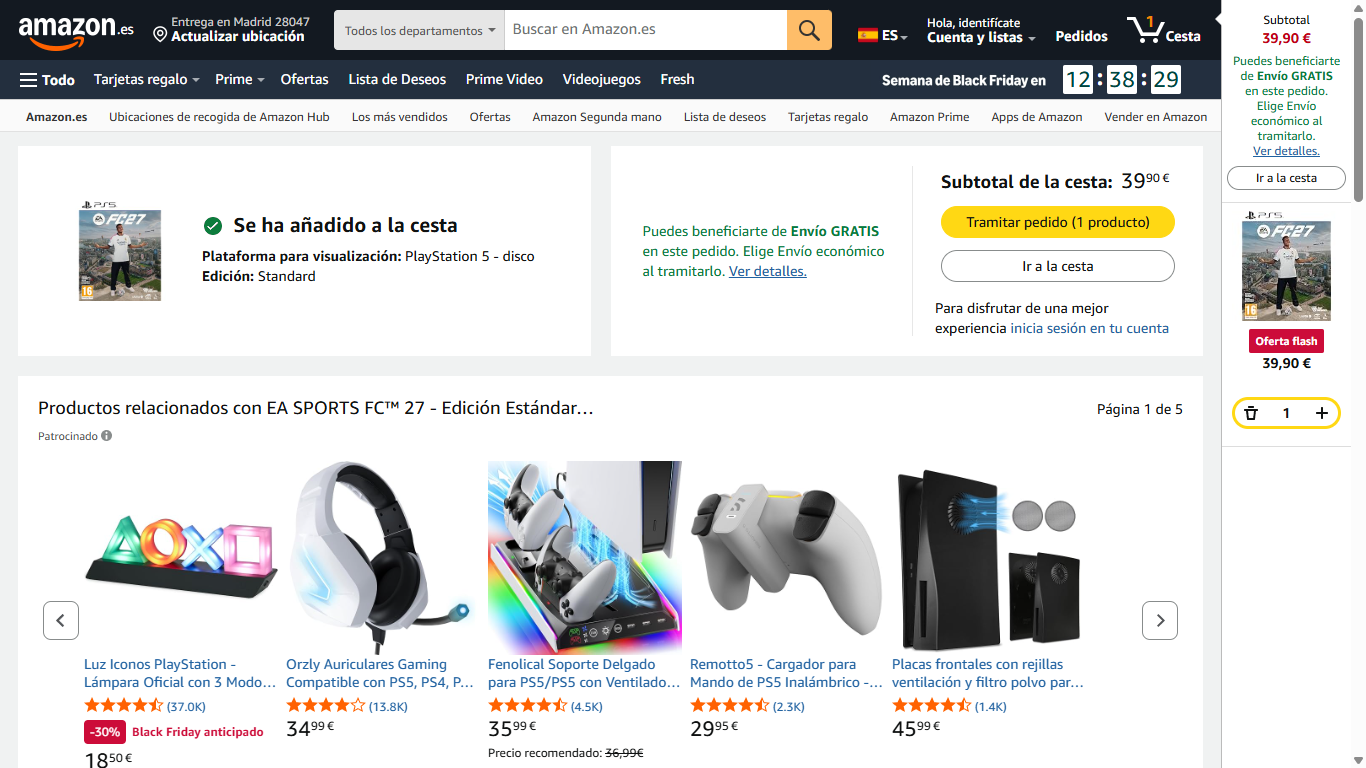
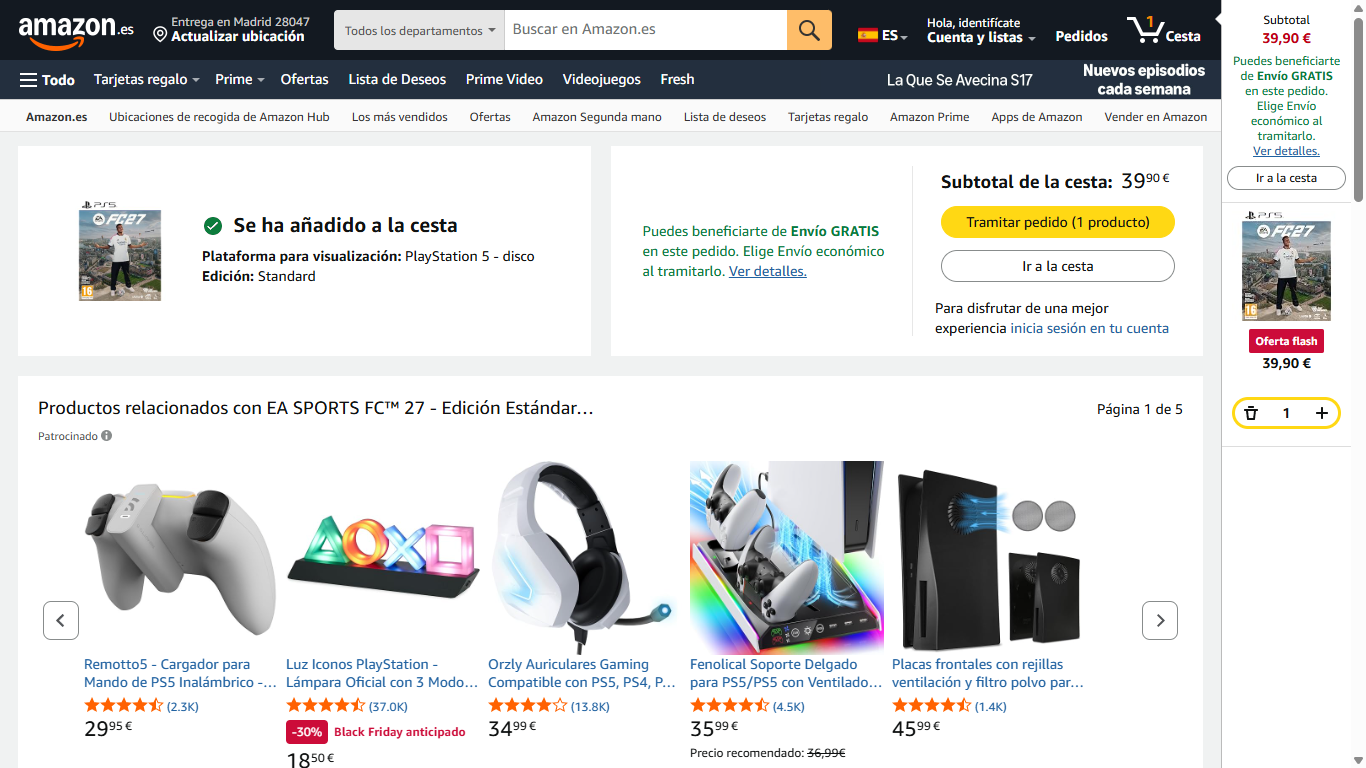
Corrige la captura de resultados de búsqueda

diff --git a/cypress/support/commands.js b/cypress/support/commands.js
@@ -43,10 +43,11 @@ Cypress.Commands.add('abrirAmazon', () => {
   cy.aceptarCookies()
 })
 
-// Escribe en el buscador y lanza la búsqueda con Enter
+// Escribe en el buscador, lanza la búsqueda y espera a que carguen los resultados
 Cypress.Commands.add('buscarProducto', (texto) => {
   cy.get(sel.buscador).clear().type(`${texto}{enter}`)
-  cy.get(sel.enlaceProducto).should('have.length.greaterThan', 0)
+  cy.url().should('include', '/s?k=')
+  cy.get(sel.enlaceProducto).first().should('be.visible')
 })
 
 // Abre el primer resultado cuyo texto coincida con el patrón
